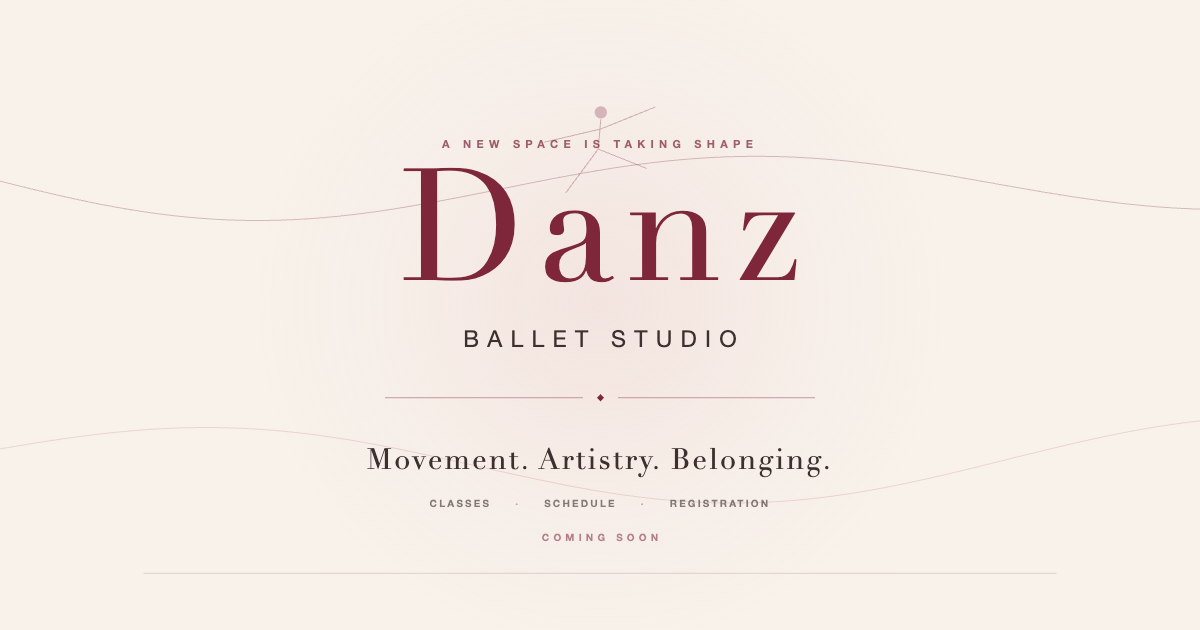
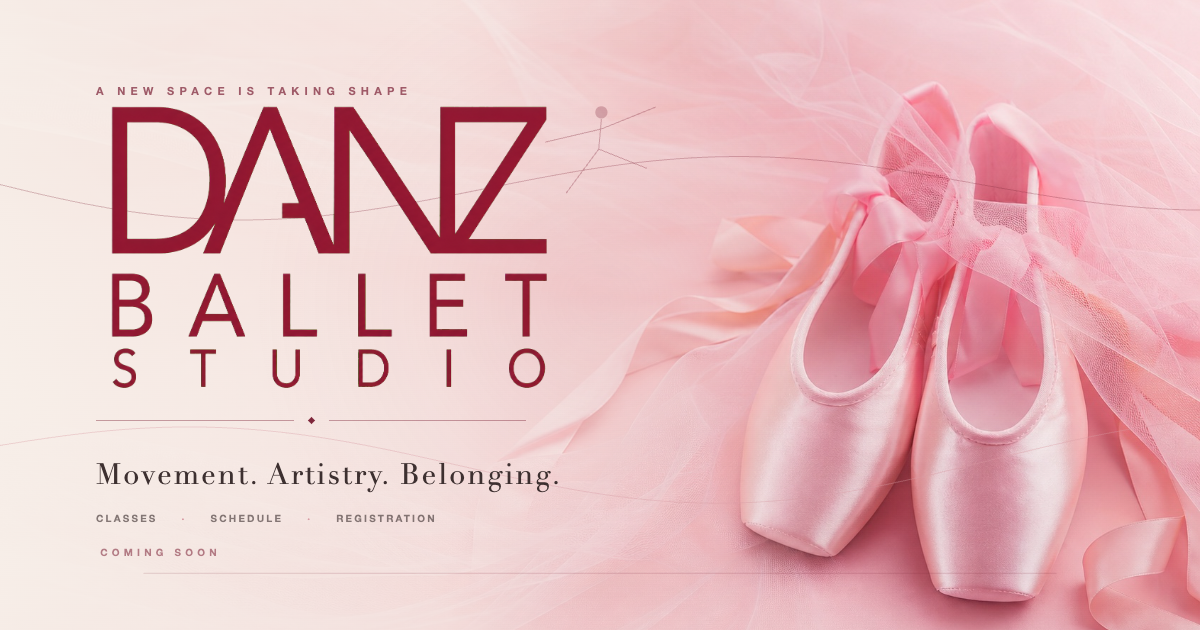
Apply Danz Ballet Instagram-inspired brand assets

diff --git a/system/public/danzballet.studio/index.html b/system/public/danzballet.studio/index.html
@@ -28,6 +28,8 @@
       content="A new space for movement, artistry, and ballet is taking shape."
     />
     <meta name="twitter:image" content="https://danzballet.studio/og-image.png" />
+    <link rel="icon" href="/logo.png" />
+    <link rel="preload" href="/hero-pointe-shoes.jpg" as="image" />
     <style>
       :root {
         color-scheme: light;
@@ -50,10 +52,28 @@
       }
 
       body {
+        position: relative;
         min-height: 100svh;
         overflow: hidden;
         color: var(--ink);
         font-family: "Helvetica Neue", Helvetica, Arial, sans-serif;
+      }
+
+      body::before,
+      body::after {
+        position: fixed;
+        inset: 0;
+        content: "";
+      }
+
+      body::before {
+        background: var(--paper) url("/hero-pointe-shoes.jpg") center / cover no-repeat;
+      }
+
+      body::after {
+        background:
+          linear-gradient(90deg, rgba(248, 242, 235, 0.94) 0%, rgba(248, 242, 235, 0.72) 36%, rgba(248, 242, 235, 0.08) 72%),
+          linear-gradient(0deg, rgba(126, 38, 58, 0.06), transparent 52%);
       }
 
       canvas {
@@ -61,21 +81,21 @@
         inset: 0;
         width: 100%;
         height: 100%;
+        z-index: 1;
       }
 
       main {
         position: relative;
-        z-index: 1;
+        z-index: 2;
         display: grid;
         min-height: 100svh;
-        place-items: center;
-        padding: clamp(28px, 7vw, 84px) 24px;
-        text-align: center;
+        align-items: center;
+        padding: clamp(28px, 7vw, 84px) clamp(24px, 8vw, 128px);
+        text-align: left;
       }
 
       .mark {
-        width: min(680px, 100%);
-        transform: translateY(4vh);
+        width: min(570px, 52vw);
       }
 
       .eyebrow {
@@ -88,30 +108,29 @@
       }
 
       h1 {
-        margin: 0;
-        color: var(--wine);
-        font-family: Didot, "Bodoni 72", "Times New Roman", serif;
-        font-size: clamp(76px, 13vw, 158px);
-        font-weight: 400;
-        letter-spacing: 0.08em;
-        line-height: 0.78;
-        text-indent: 0.08em;
+        position: absolute;
+        width: 1px;
+        height: 1px;
+        padding: 0;
+        margin: -1px;
+        overflow: hidden;
+        clip: rect(0, 0, 0, 0);
+        white-space: nowrap;
+        border: 0;
       }
 
-      .studio {
-        margin: clamp(22px, 4vw, 34px) 0 0;
-        font-size: clamp(13px, 2vw, 23px);
-        font-weight: 400;
-        letter-spacing: 0.36em;
-        text-indent: 0.36em;
-        text-transform: uppercase;
+      .brand-logo {
+        display: block;
+        width: min(610px, 58vw);
+        max-width: none;
+        margin: clamp(-76px, -5vw, -42px) 0 clamp(-62px, -4vw, -34px) clamp(-86px, -6vw, -46px);
       }
 
       .rule {
         display: flex;
         align-items: center;
         width: min(430px, 72vw);
-        margin: clamp(26px, 5vw, 42px) auto;
+        margin: clamp(20px, 3vw, 34px) 0;
         color: var(--wine);
       }
 
@@ -141,7 +160,7 @@
 
       .details {
         display: flex;
-        justify-content: center;
+        justify-content: flex-start;
         gap: 12px 24px;
         margin: 18px 0 0;
         color: color-mix(in srgb, var(--ink) 62%, transparent);
@@ -168,8 +187,24 @@
       }
 
       @media (max-width: 520px) {
+        body::before {
+          background-position: 68% center;
+        }
+
+        body::after {
+          background:
+            linear-gradient(0deg, rgba(248, 242, 235, 0.9), rgba(248, 242, 235, 0.64)),
+            linear-gradient(90deg, rgba(248, 242, 235, 0.8), rgba(248, 242, 235, 0.22));
+        }
+
+        main {
+          justify-items: center;
+          padding: 28px 22px;
+          text-align: center;
+        }
+
         .mark {
-          transform: translateY(3vh);
+          width: 100%;
         }
 
         .eyebrow {
@@ -178,16 +213,18 @@
           letter-spacing: 0.35em;
         }
 
-        h1 {
-          font-size: clamp(70px, 24vw, 104px);
+        .brand-logo {
+          width: 100%;
+          margin: -38px auto -30px;
         }
 
-        .studio {
-          letter-spacing: 0.25em;
-          text-indent: 0.25em;
+        .rule {
+          margin-right: auto;
+          margin-left: auto;
         }
 
         .details {
+          justify-content: center;
           flex-wrap: wrap;
           gap: 8px 14px;
           line-height: 1.6;
@@ -210,8 +247,8 @@
     <main>
       <section class="mark" aria-label="Danz Ballet Studio, coming soon">
         <p class="eyebrow">A new space is taking shape</p>
-        <h1>Danz</h1>
-        <p class="studio">Ballet Studio</p>
+        <img class="brand-logo" src="/logo.png" alt="" />
+        <h1>Danz Ballet Studio</h1>
         <div class="rule" aria-hidden="true"><span></span></div>
         <p class="message">Movement. Artistry. Belonging.</p>
         <p class="details">
